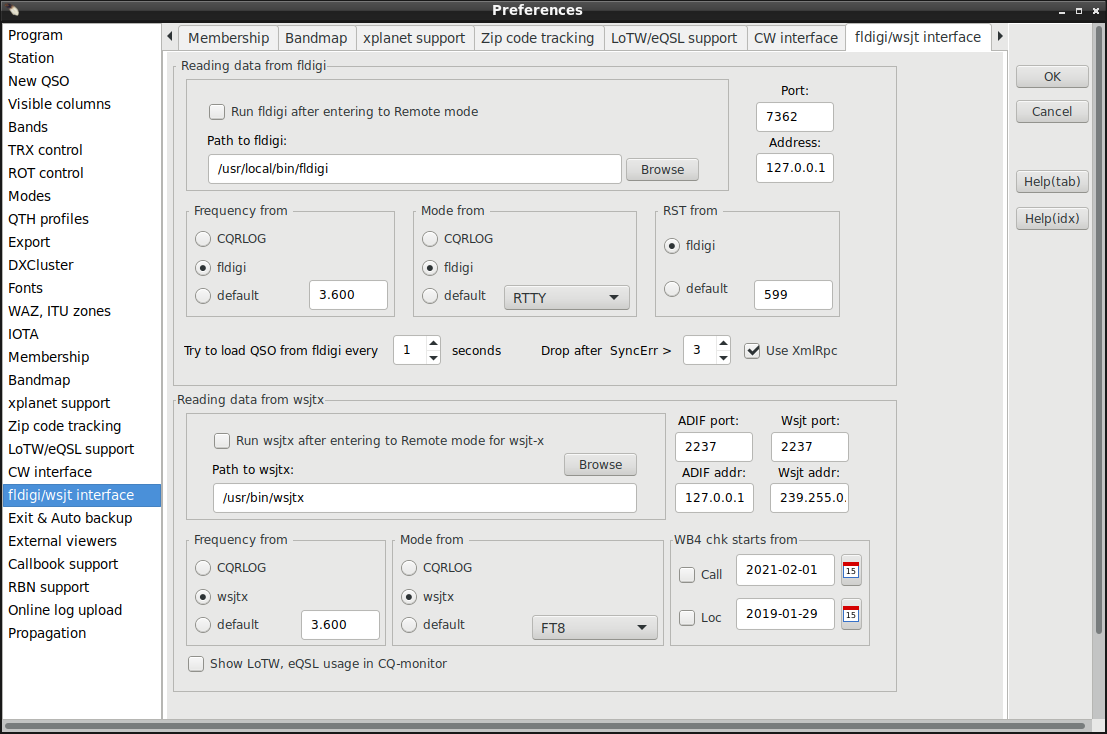
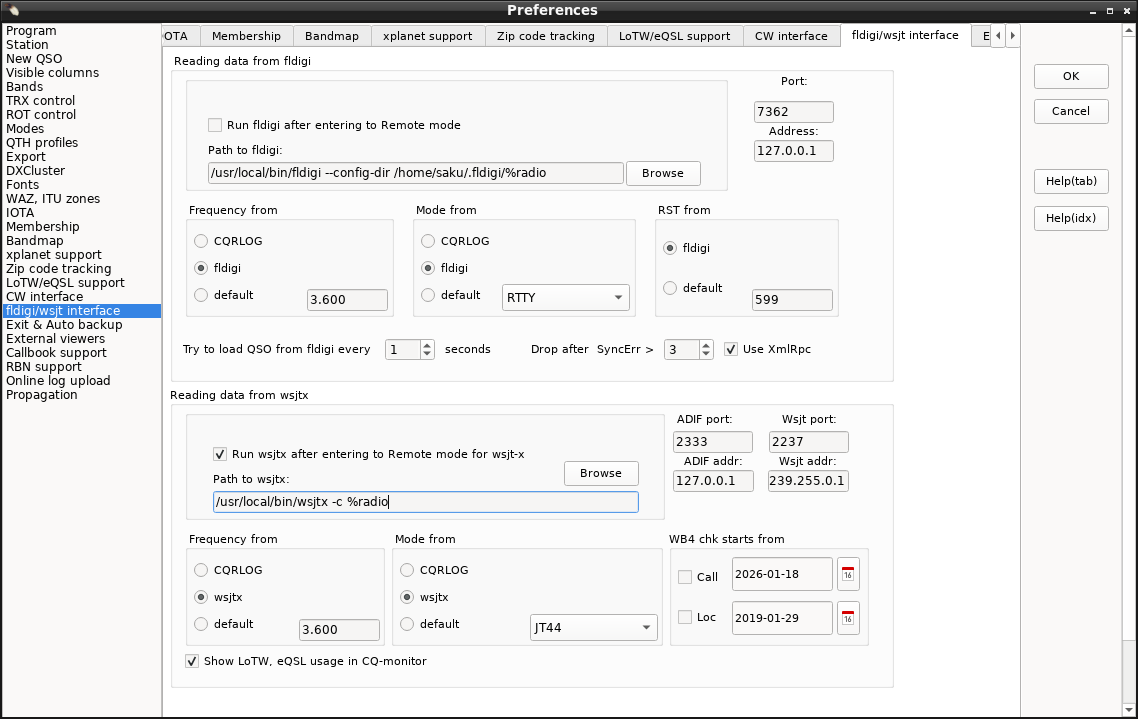
Remote:Fix: replaced '%rig' with '%radio' and fixed help files too

Changed region(s): [[0.0, 0.0, 1.0, 1.0]]

diff --git a/help/h1.html b/help/h1.html
@@ -810,6 +810,7 @@ There are no known dependencies issues.<br><br>
     When logging/saving a contact, frequency, mode and RST should appear correctly in this QSO list.
     If you choose the CQRLOG option, you must set the mode in CQRLOG which seems less sensible.
     <br><br>See also:<a href="fldxml.html#fl1"> Using fldigi withXmlRpc remote mode</a><br>
+    <br><br> You can enter parameters for fldigi in path. '%radio' will be replaced with preferences/TRXControl/name of currently used radio for making radio specific configurations, if needed.
     <br><br>
     <a name=ch2b></a>
     <p><img src="img/h101.png"><br><br>
@@ -829,6 +830,7 @@ There are no known dependencies issues.<br><br>
     WB4 can be handy when working <strong>ARRL International Grid Chase </strong>or <strong>ARRL RTTY-FT8</strong> like contests if one does not like to create separate log for that purpose.
     <br><br><img src="img/h101b.png"><br><br>
     Pressing calendar icon is easy way to set date. Double click on selected date closes calendar and sets the date. Pressing ESC closes calendar, but does not set date. Date can also be typed in manually.
+    <br><br> You can enter parameters for wsjtx in path. '%radio' will be replaced with preferences/TRXControl/name of currently used radio for making radio specific configurations, if needed.
     </p>
     <a name=ch2c></a>
     <h2><strong>ADIF interface</strong></h2>

diff --git a/src/changelog.html b/src/changelog.html
@@ -12,6 +12,7 @@
     What is new:
     <ul style="list-style: square;text-align:left; color: green;" >
     <li>(140)</li><ul>
+    <li>Remote:Fix: replaced '%rig' with '%radio' (as TRXControl uses 'radio', too) and fixed help files too</li>
     <li>Remote:Add: 'path to wsjtx' and 'path to fldigi' can have parameters where %rig is replaced with preferences/TRXControl/name of rig currently used</li>
     <li>TRXControl:Add: checkbox "Simple Rig". No \chk_vfo, \dump_caps. Mainly set/get frequency and mode (+some other commands).<br>
         For old rigs and poor rigctld emulators to minimize used command set.</li>